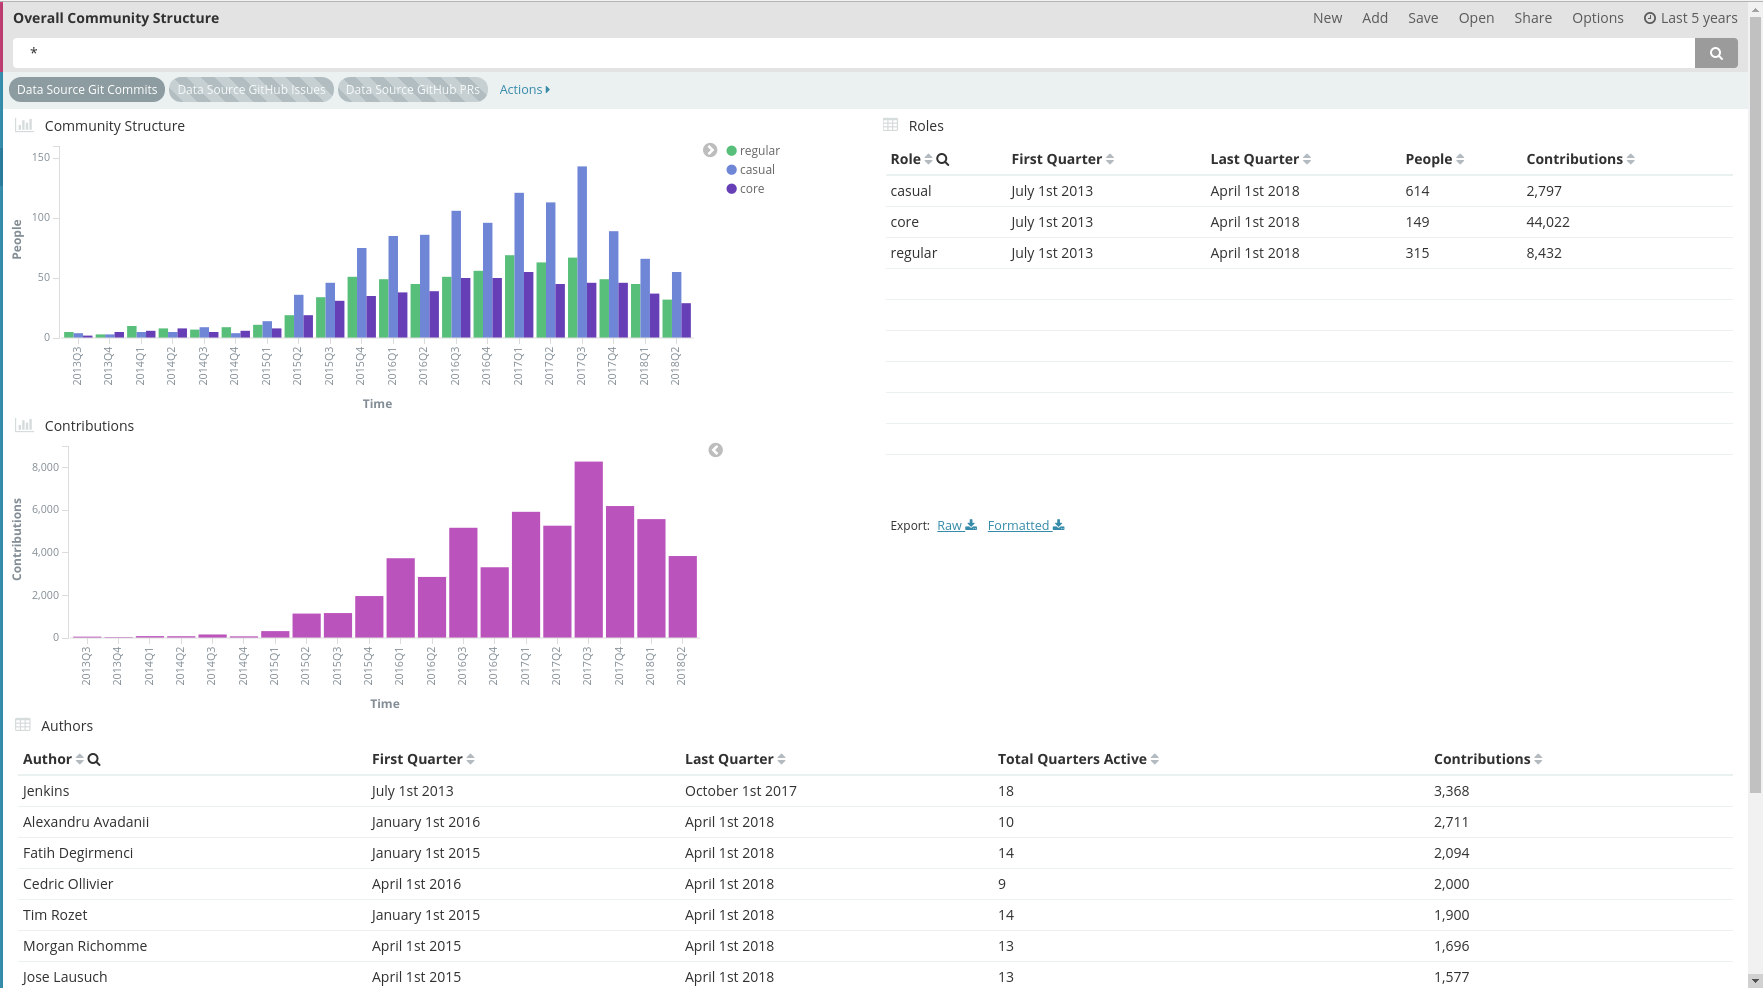
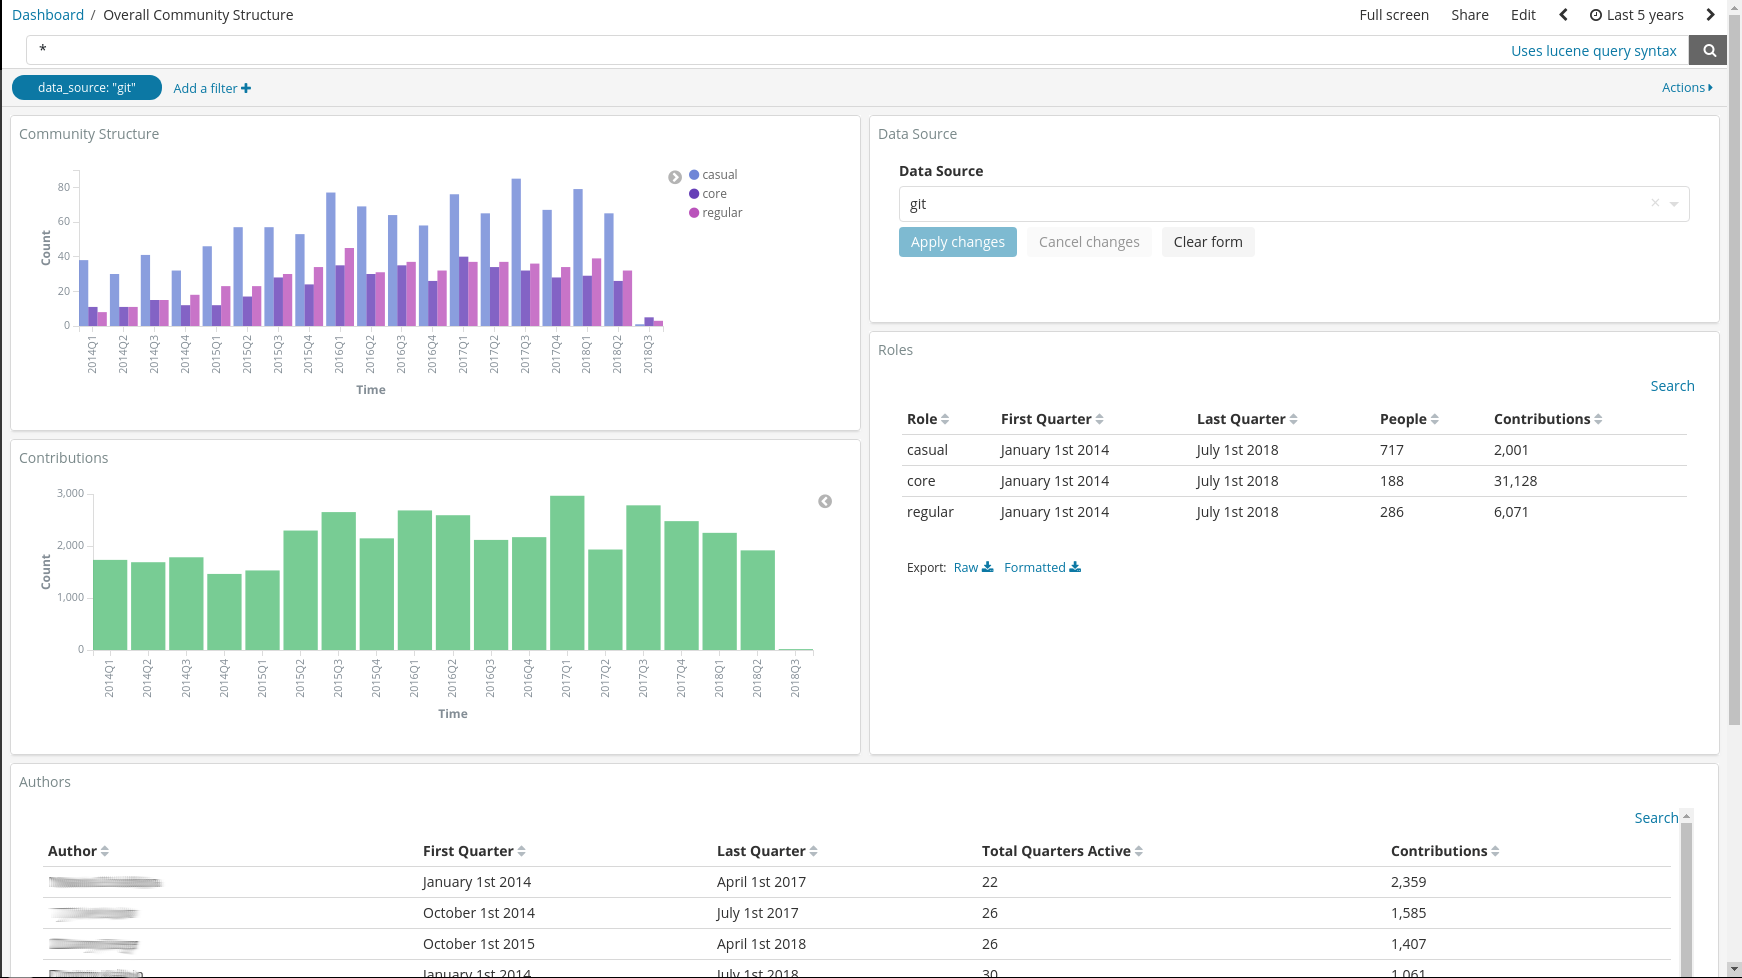
[onion] Add data source filter widget to panels
All onion panels now have a widget with a drop down list
to select data source. Documentation updated accordingly.

diff --git a/doc/community-structure.md b/doc/community-structure.md
@@ -32,17 +32,21 @@ some basic features you will find in all community structure panels.
 ### General Details
 * Wherever you see **`_Global_`** as organization or project name, it means
     results computed for all organizations or projects together. We will
-    see more on this within eachs use case.
+    see more on this within each use case.
 * As data is pre-computed for performance reasons, **it is important to
     follow use cases described here to get meaningful results**. Use cases
     will guide you to the answers you can get from the panels.
-* All panels have **filters on top to select the data source**. By default
- Git is activated while the rest are disabled.
+* All panels have **a filter on top to select the data source**. By default
+    Git is selected. These filters can be modified by using Data Source widget
+    placed on first row. Depending on each panel layout it is at the left or
+    right. 
 
+![Global View](assets/images/onion_filters_on_top_2.png)
+###### Figure 1a. Panel filter on top and Data Source widget at the right 
 ![Global View](assets/images/onion_filters_on_top.png)
-###### Figure 1. Panel filters on top
+###### Figure 1b. Panel filter on top and Data Source widget at the left
 
-* **Only one of these data source filters should be active at the same time**. 
+* **Only one of data source filter should be active at the same time**. 
     In Kibana/Kibiter, filters are combined by means of `AND` operators.
     E.g. if we enable Git and GitHub filters, under the hood we get
     an ElasticSearch query like:
@@ -52,6 +56,11 @@ some basic features you will find in all community structure panels.
     Thus, by selecting more than one data source filter at the same time,
     we won't get any result, because data come from one data source or another,
     but not several at the same time.
+* Data Source widget automatically manages this for you, so you just need to
+    select the desired data source in the drop down list and click on
+    `Apply changes`.
+* Data is meaningful only if **one and only one data source** is selected for
+    filtering. 
     
 ### UC1. Onion model for the whole community.
 This use case is covered by **Overall Community Structure** panel.
